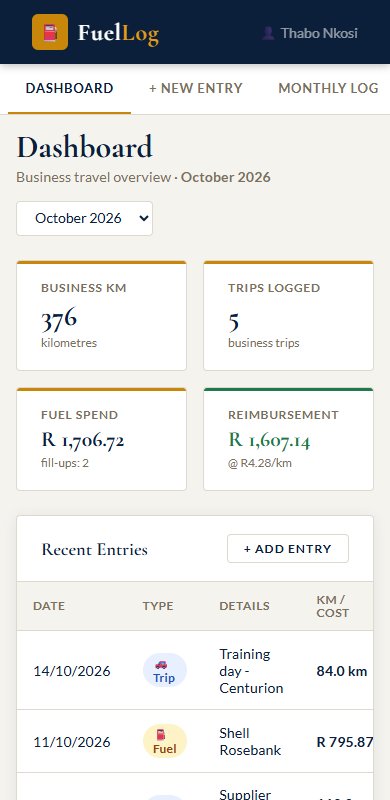
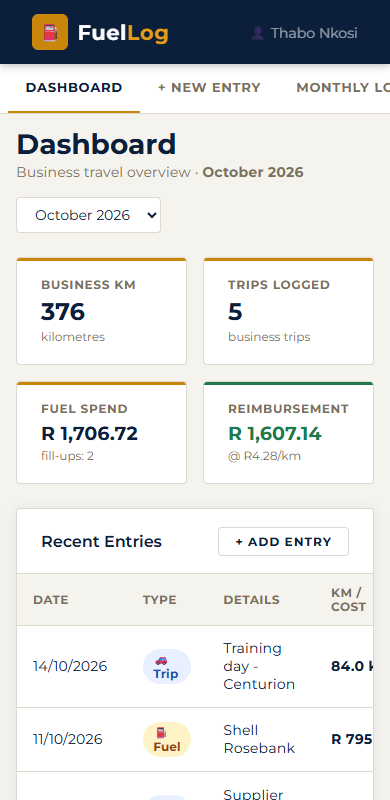
Switch typography to Montserrat

diff --git a/css/styles.css b/css/styles.css
@@ -17,7 +17,7 @@
   }
 
   body {
-    font-family: 'Lato', sans-serif;
+    font-family: 'Montserrat', sans-serif;
     background: var(--bg);
     color: var(--text);
     min-height: 100vh;
@@ -46,8 +46,8 @@
     font-size: 18px;
   }
   .logo-text {
-    font-family: 'Cormorant Garamond', serif;
-    font-size: 1.5rem; font-weight: 700; letter-spacing: 0.03em;
+    font-family: 'Montserrat', sans-serif;
+    font-size: 1.3rem; font-weight: 700; letter-spacing: 0.03em;
   }
   .logo-text span { color: var(--amber-light); }
   .header-user { font-size: 0.85rem; color: rgba(255,255,255,0.55); letter-spacing: 0.02em; }
@@ -62,7 +62,7 @@
   }
   .nav-btn {
     padding: 1rem 1.1rem; border: none; background: none;
-    font-family: 'Lato', sans-serif; font-size: 0.8rem; font-weight: 700;
+    font-family: 'Montserrat', sans-serif; font-size: 0.8rem; font-weight: 700;
     letter-spacing: 0.07em; text-transform: uppercase;
     color: var(--muted); cursor: pointer;
     border-bottom: 3px solid transparent;
@@ -86,7 +86,7 @@
     border-bottom: 1px solid var(--border);
     display: flex; align-items: center; justify-content: space-between;
   }
-  .card-title { font-family: 'Cormorant Garamond', serif; font-size: 1.15rem; font-weight: 600; }
+  .card-title { font-family: 'Montserrat', sans-serif; font-size: 1rem; font-weight: 600; }
   .card-body { padding: 1.5rem; }
 
   /* ── Stats Grid ── */
@@ -102,7 +102,7 @@
   }
   .stat-card.green::before { background: var(--success); }
   .stat-label { font-size: 0.72rem; font-weight: 700; letter-spacing: 0.09em; text-transform: uppercase; color: var(--muted); margin-bottom: 0.5rem; }
-  .stat-value { font-family: 'Cormorant Garamond', serif; font-size: 1.75rem; font-weight: 700; color: var(--navy); line-height: 1; }
+  .stat-value { font-family: 'Montserrat', sans-serif; font-size: 1.5rem; font-weight: 700; color: var(--navy); line-height: 1; }
   .stat-sub { font-size: 0.75rem; color: var(--muted); margin-top: 0.3rem; }
 
   /* ── Forms ── */
@@ -114,7 +114,7 @@
   input, select, textarea {
     width: 100%; padding: 0.62rem 0.875rem;
     border: 1px solid var(--border); border-radius: var(--radius);
-    font-family: 'Lato', sans-serif; font-size: 0.9375rem; color: var(--text);
+    font-family: 'Montserrat', sans-serif; font-size: 0.9375rem; color: var(--text);
     background: white; transition: border-color 0.15s;
   }
   input:focus, select:focus, textarea:focus { outline: none; border-color: var(--navy); box-shadow: 0 0 0 3px rgba(11,31,58,0.07); }
@@ -124,7 +124,7 @@
   /* ── Buttons ── */
   .btn {
     padding: 0.62rem 1.5rem; border: none; border-radius: var(--radius);
-    font-family: 'Lato', sans-serif; font-size: 0.82rem; font-weight: 700;
+    font-family: 'Montserrat', sans-serif; font-size: 0.82rem; font-weight: 700;
     letter-spacing: 0.06em; text-transform: uppercase; cursor: pointer;
     transition: all 0.15s; display: inline-flex; align-items: center; gap: 0.4rem;
   }
@@ -144,7 +144,7 @@
   }
   .type-tab {
     padding: 0.5rem 1.75rem; border: none; background: transparent;
-    font-family: 'Lato', sans-serif; font-size: 0.875rem; font-weight: 700;
+    font-family: 'Montserrat', sans-serif; font-size: 0.875rem; font-weight: 700;
     letter-spacing: 0.04em; color: var(--muted); cursor: pointer;
     border-radius: 2px; transition: all 0.15s;
   }
@@ -194,7 +194,7 @@
 
   /* ── Month / section header ── */
   .section-header { display: flex; align-items: flex-start; justify-content: space-between; margin-bottom: 1.5rem; flex-wrap: wrap; gap: 1rem; }
-  .section-header h1 { font-family: 'Cormorant Garamond', serif; font-size: 2rem; font-weight: 700; line-height: 1; }
+  .section-header h1 { font-family: 'Montserrat', sans-serif; font-size: 1.75rem; font-weight: 700; line-height: 1; }
   .section-header p { color: var(--muted); font-size: 0.9rem; margin-top: 0.3rem; }
 
   /* ── Month select ── */
@@ -203,7 +203,7 @@
   /* ── Empty state ── */
   .empty-state { text-align: center; padding: 3rem; color: var(--muted); }
   .empty-state .icon { font-size: 2.5rem; margin-bottom: 0.75rem; }
-  .empty-state h3 { font-family: 'Cormorant Garamond', serif; font-size: 1.25rem; margin-bottom: 0.5rem; color: var(--text); }
+  .empty-state h3 { font-family: 'Montserrat', sans-serif; font-size: 1.1rem; margin-bottom: 0.5rem; color: var(--text); }
 
   /* ── Toast ── */
   .toast {

diff --git a/js/app.js b/js/app.js
@@ -132,12 +132,12 @@ function rDash() {
     </div>
     <div class="stat-card">
       <div class="stat-label">Fuel Spend</div>
-      <div class="stat-value" style="font-size:1.35rem">${fmtR(st.fuel)}</div>
+      <div class="stat-value" style="font-size:1.2rem">${fmtR(st.fuel)}</div>
       <div class="stat-sub">fill-ups: ${st.fuels}</div>
     </div>
     <div class="stat-card green">
       <div class="stat-label">Reimbursement</div>
-      <div class="stat-value" style="font-size:1.35rem;color:var(--success)">${fmtR(st.reimburse)}</div>
+      <div class="stat-value" style="font-size:1.2rem;color:var(--success)">${fmtR(st.reimburse)}</div>
       <div class="stat-sub">@ R${S.settings.ratePerKm}/km</div>
     </div>
   </div>

diff --git a/index.html b/index.html
@@ -4,7 +4,7 @@
   <meta charset="UTF-8">
   <meta name="viewport" content="width=device-width, initial-scale=1.0">
   <title>FuelLog - Business Travel Tracker</title>
-  <link href="https://fonts.googleapis.com/css2?family=Cormorant+Garamond:ital,wght@0,400;0,600;0,700;1,400&family=Lato:wght@300;400;700&display=swap" rel="stylesheet">
+  <link href="https://fonts.googleapis.com/css2?family=Montserrat:wght@400;500;600;700&display=swap" rel="stylesheet">
   <link rel="stylesheet" href="css/styles.css">
 </head>
 <body>
